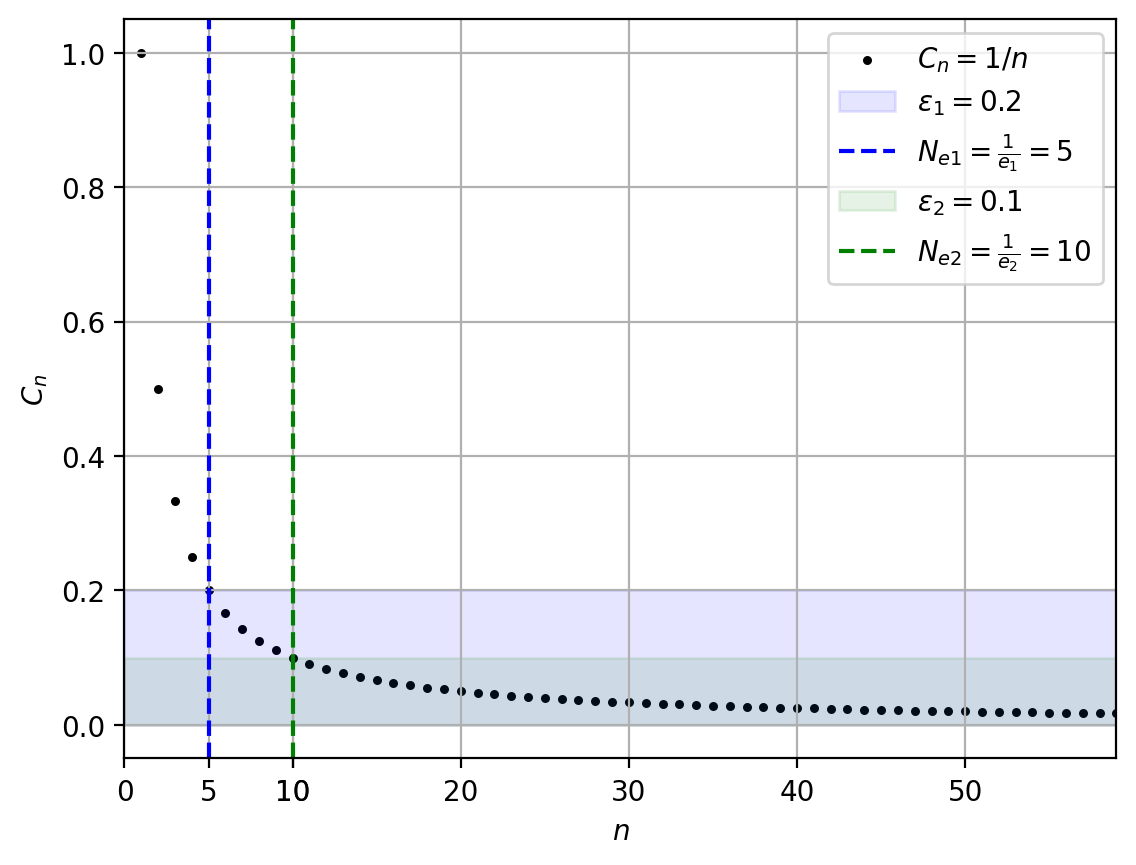
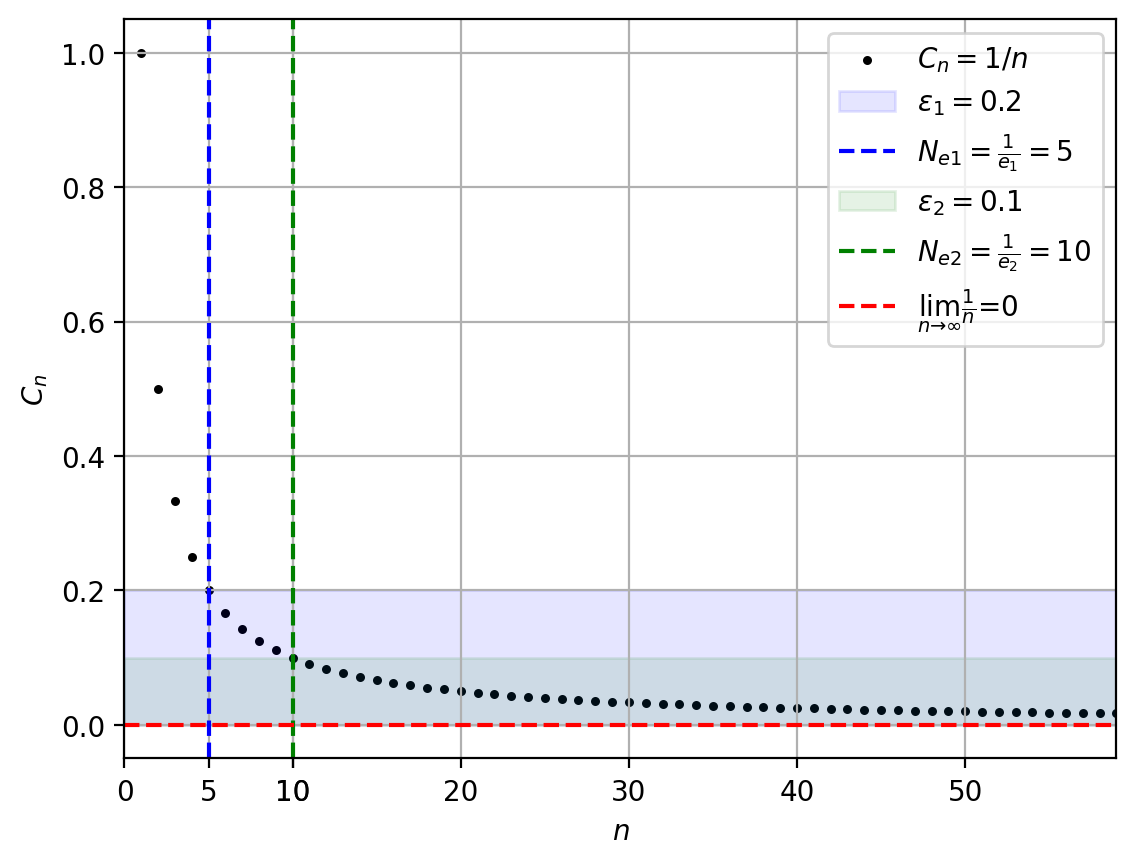
w

diff --git a/dsmaththeory1.md b/dsmaththeory1.md
@@ -847,11 +847,25 @@ $n$ — **мощность множества** $M$
 
 **Пример:**
 
-Возьмём последовательность $С_n = 1/n$, элементы такой последовательности следующие: ${1, 1/2, 1/3, 1/4, ...}$. Интуитивно понятно что предел такой последовательности равен $0$ при $x \rightarrow \infty$. Разберём это наглядно
+Рассмотрим последовательность $С_n = 1/n$, элементы такой последовательности следующие: $\frac{1}{1}, \frac{1}{2}, \frac{1}{3}, \frac{1}{4}, ...$. Интуитивно понятно что предел такой последовательности равен $0$ при $x \rightarrow \infty$. Разберём это наглядно
 
-Зададим $\varepsilon = 0.1$, тогда $N_\varepsilon = 1/0.2=5$. Это значит что все элементы последовательнсти начиная с номера **5** будут отличаться от предела (раного $0$) меньше чем на $\varepsilon = 0.1$
+**Зададим $e=0.2$**
 
-<img src="./images/lime02.png">
+Зададим $\varepsilon = 0.2$, тогда $N_\varepsilon = 1/0.2=5$. Это значит что все элементы последовательнсти начиная с номера **5** будут отличаться от $0$ ($lim_{n \to \infty}$) меньше чем на $0.2$ ($\varepsilon$)
+
+<img src="./images/lime02.png" style="max-width: 600px;">
+
+**Зададим $e=0.1$**
+
+Зададим $\varepsilon = 0.1$, тогда $N_\varepsilon = 1/0.1=10$. Все элементы последовательнсти начиная с номера **10** будут отличаться от $0$ меньше чем на $0.1$ ($\varepsilon$)
+
+<img src="./images/lime01.png" style="max-width: 600px;">
+
+**Зададим $e=0.05$**
+
+$\varepsilon = 0.05$, $N_\varepsilon = 1/0.05=20$. Все элементы последовательнсти начиная с номера **20** будут отличаться от $0$ меньше чем на $0.05$ ($\varepsilon$)
+
+<img src="./images/lime005.png" style="max-width: 600px;">
 
 **Формальное определение (как в книгах):** Число $А$ называется пределом последовательности ${x_n}$ при $n$
 стремящимся к бесконечности, если для любого $\varepsilon > 0$ существует натуральное
